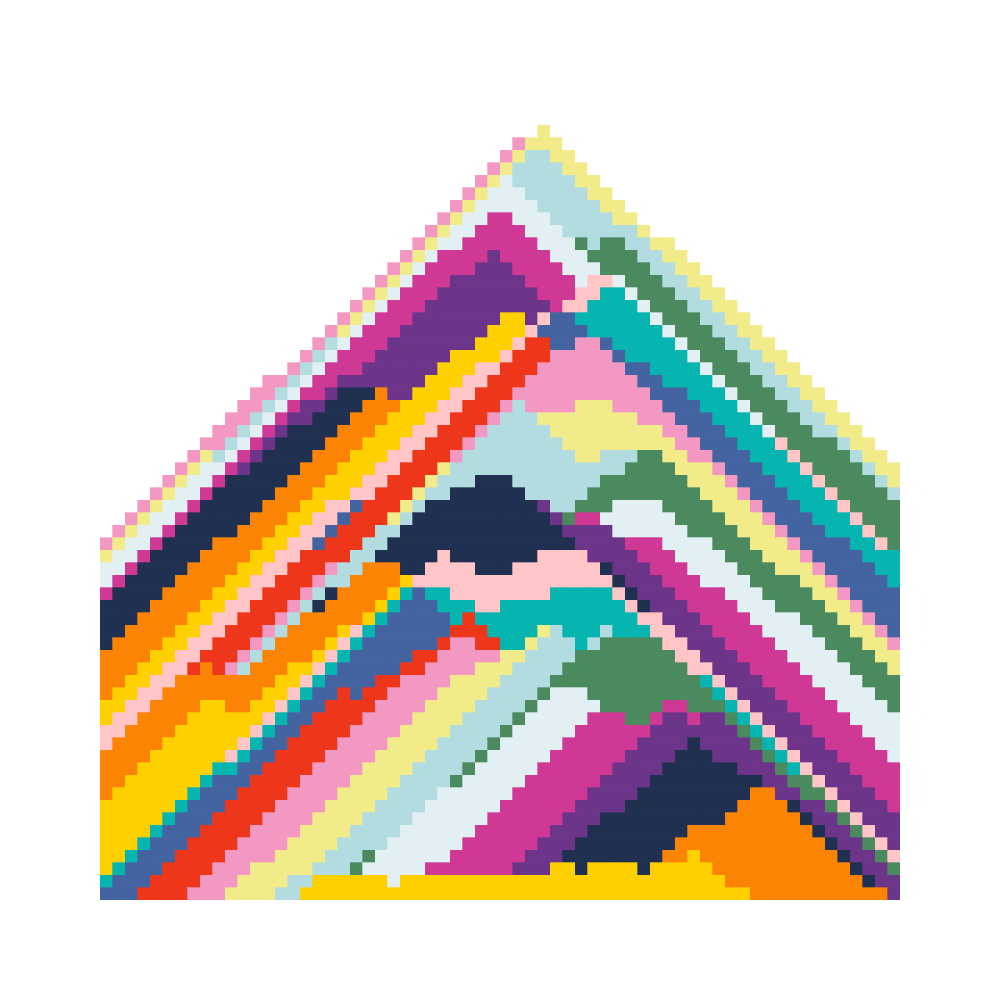
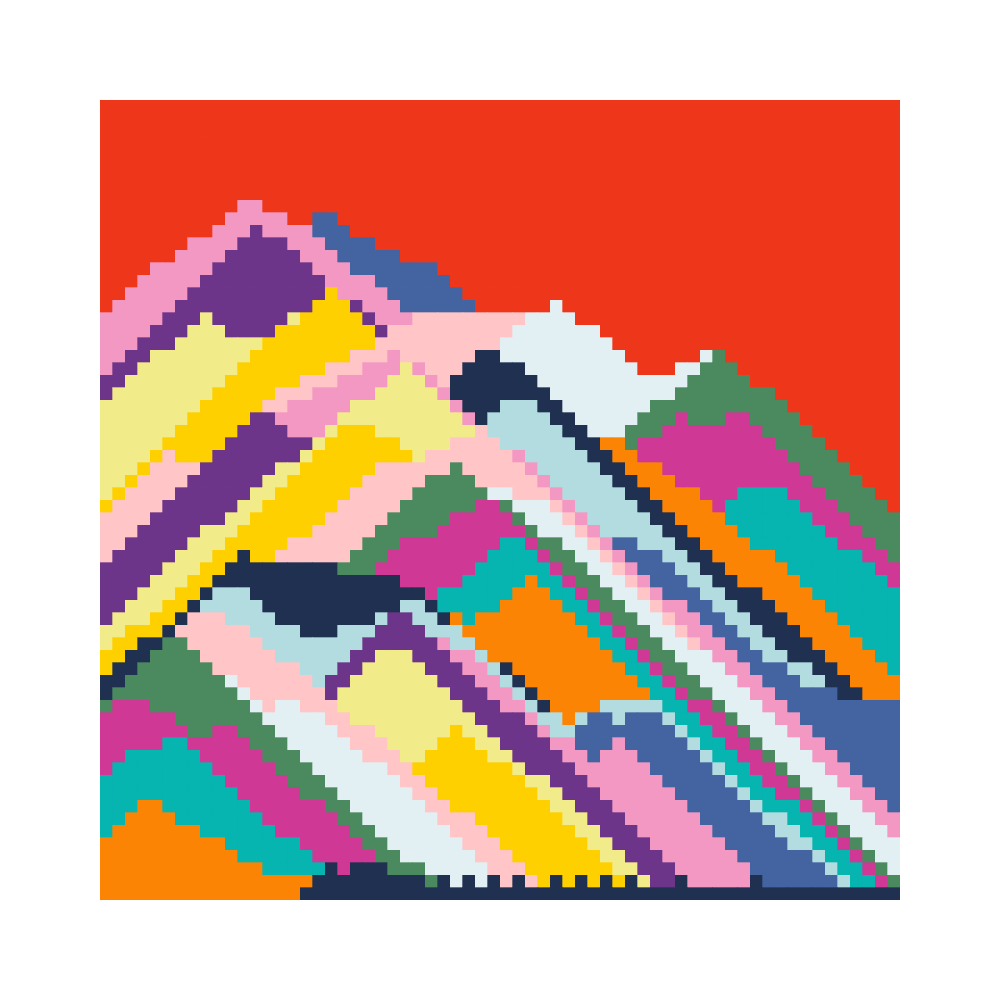
JAN15 updated

diff --git a/JAN11-20/JAN15/sketch.js b/JAN11-20/JAN15/sketch.js
@@ -9,29 +9,31 @@ https://ronikaufman.github.io
 let margin = 50, n = 64;
 let world = [];
 let palette = ["#f2eb8a", "#fed000", "#fc8405", "#ed361a", "#e2f0f3", "#b3dce0", "#4464a1", "#203051", "#ffc5c7", "#f398c3", "#cf3895", "#6d358a", "#06b4b0", "#4b8a5f"];
-let col = 0;
+let col = 0, backCol;
 
 function setup() {
   createCanvas(500, 500);
-  background(255);
   noStroke();
+
+  shuffle(palette, true);
+  backCol = palette.pop();
 
   for (let i = 0; i < n; i++) {
     let line = [];
     for (let j = 0; j < n; j++) {
-      line.push(255);
+      line.push(backCol);
     }
     world.push(line);
   }
 
-  shuffle(palette, true);
+  background(255);
 }
 
 function draw() {
   oneStep();
   drawWorld();
 
-  let x = width/2 + (noise(frameCount/150)-0.5)*(width-2*margin)*1.1;
+  let x = width/2 + (noise(frameCount/150)-0.5)*(width-2*margin)*1.5;
   if (frameCount < 3000) addGrain(x, margin);
   if (frameCount % 80 == 0) col++;
 }
@@ -40,15 +42,15 @@ function oneStep() {
   for (let i = n-2; i > -1; i--) {
     for (let j = 0; j < n; j++) {
       let v = world[i][j];
-      if (v != 255) {
-        if (world[i+1][j] == 255) {
-          world[i][j] = 255;
+      if (v != backCol) {
+        if (world[i+1][j] == backCol) {
+          world[i][j] = backCol;
           world[i+1][j] = v;
-        } else if (j > 0 && world[i+1][j-1] == 255) {
-          world[i][j] = 255;
+        } else if (j > 0 && world[i+1][j-1] == backCol) {
+          world[i][j] = backCol;
           world[i+1][j-1] = v;
-        } else if (j < n-1 && world[i+1][j+1] == 255) {
-          world[i][j] = 255;
+        } else if (j < n-1 && world[i+1][j+1] == backCol) {
+          world[i][j] = backCol;
           world[i+1][j+1] = v;
         }
       }
